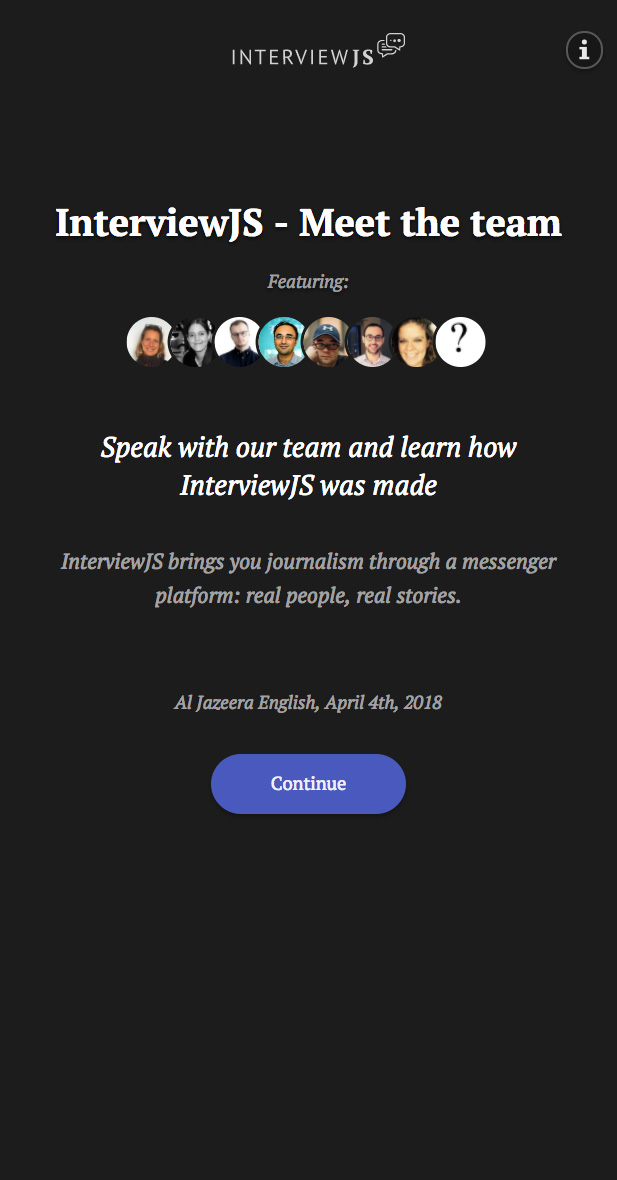
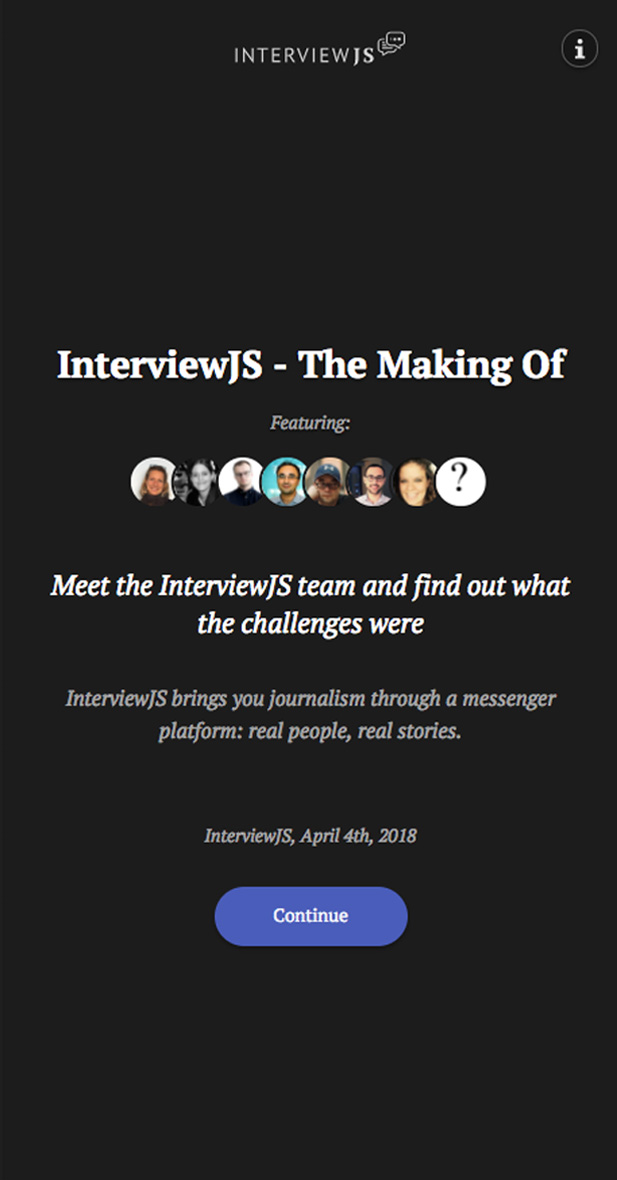
Fixed hhtps and updated making of thumb

diff --git a/site/index.html b/site/index.html
@@ -72,13 +72,17 @@
       <br>
       <h4 class="text-center"><a href="https://composer.interviewjs.io" target="_blank"><button class="signup" type="button">Sign up - It’s Free!</button></a></h4>
       <small class="text-center bluelink">Already a user? <a href="https://composer.interviewjs.io">Log in.</a></small>
-      <br>
-      <br>
       </div>
-      <div class="col-xs-12 col-sm-10 col-md-8 col-lg-6 col-sm-offset-1 col-md-offset-2 col-lg-offset-3">
+    </div>
+  </div>
+    <div class="container-fluid blue">
+    <div class="row">
+        <div class="col-xs-12 col-sm-10 col-md-8 col-lg-6 col-sm-offset-1 col-md-offset-2 col-lg-offset-3">
           <div class="embed-responsive embed-responsive-16by9">
               <iframe class="embed-responsive-item" src="https://www.youtube.com/embed/C3GkS8KYnuE?modestbranding=1"></iframe>
           </div>
+          <br>
+          <br>
           <br>
       </div>
     </div>
@@ -150,7 +154,7 @@
         <h1 class="text-center">Examples</h1>
         <p class="text-center">Here are just some examples of what you can make with InterviewJS:</p>
         <div class="col-xs-12 col-sm-6 col-md-6 col-lg-6 example">
-          <a href="hhttps://story.interviewjs.io/hd3g6tYmzLgfYYUqzaEzFm/" target="_blank"><img src="images/story1.jpg" class="img-responsive" alt="Interviewjs"></a>
+          <a href="https://story.interviewjs.io/hd3g6tYmzLgfYYUqzaEzFm/" target="_blank"><img src="images/story1.jpg" class="img-responsive" alt="Interviewjs"></a>
         </div>
         <div class="col-xs-12 col-sm-6 col-md-6 col-lg-6 example">
           <a href="https://story.interviewjs.io/uHaAGrwjkJqbnachdgUGFf/" target="_blank"><img src="images/story2.jpg" class="img-responsive" alt="Interviewjs"></a>
